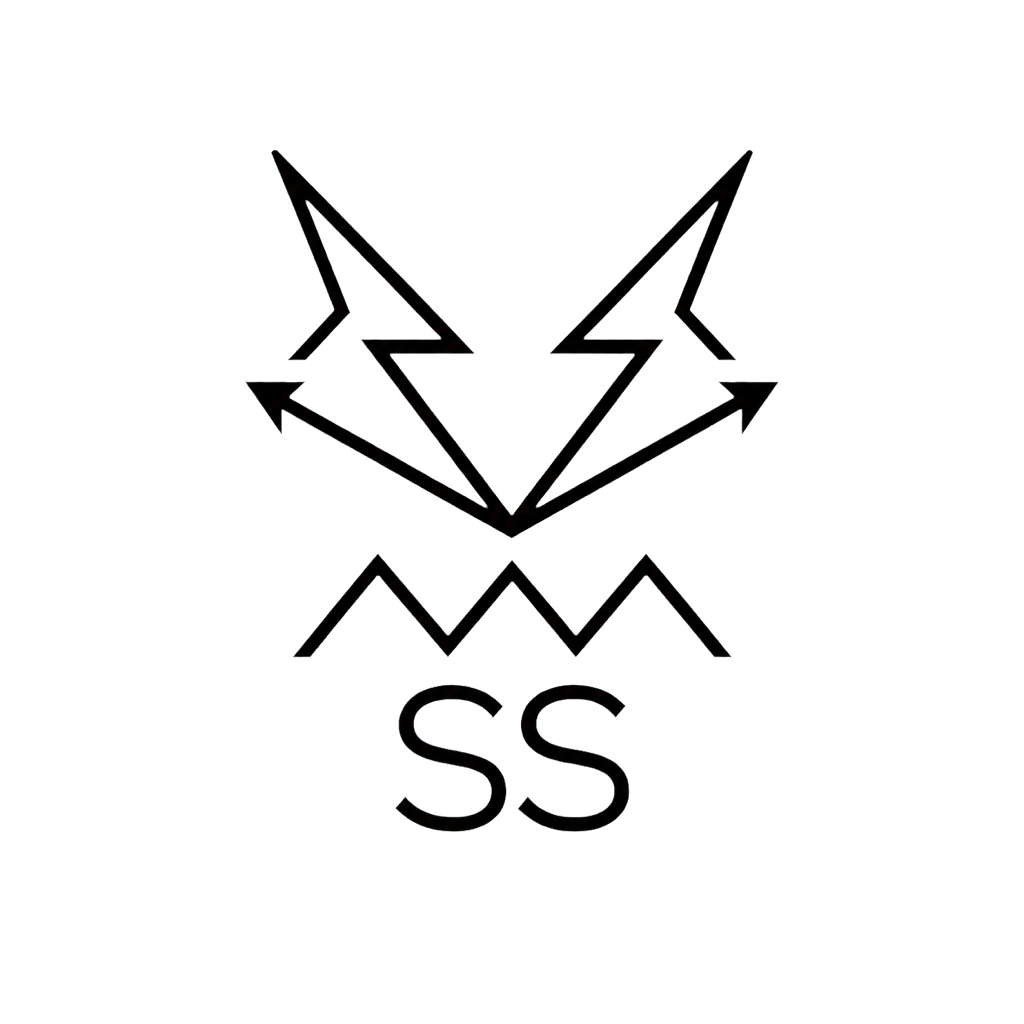
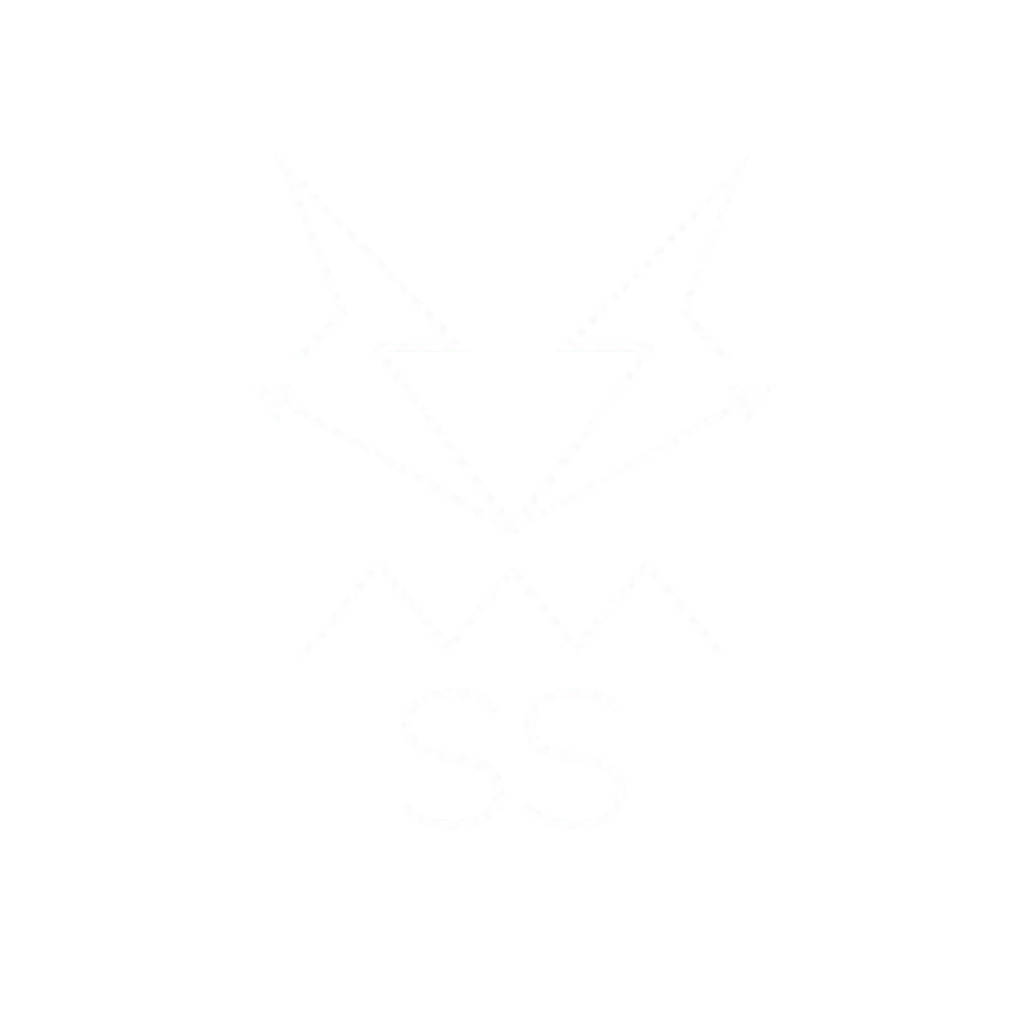
ci: avoid Swift batch-mode compiler crash

diff --git a/docs/images/README.md b/docs/images/README.md
@@ -20,7 +20,7 @@ Signal Sieve application.
 
 ## Current fixtures
 
-- `signal-sieve-mark.png`: the black Signal Sieve mark on a transparent
+- `signal-sieve-mark.png`: the white Signal Sieve mark on a transparent
   1,024-by-1,024 canvas, used as the README brand image without an app-icon
   tile or screenshot background.
 - `signal-sieve-overview.png`: neutral project note containing U+200B and
